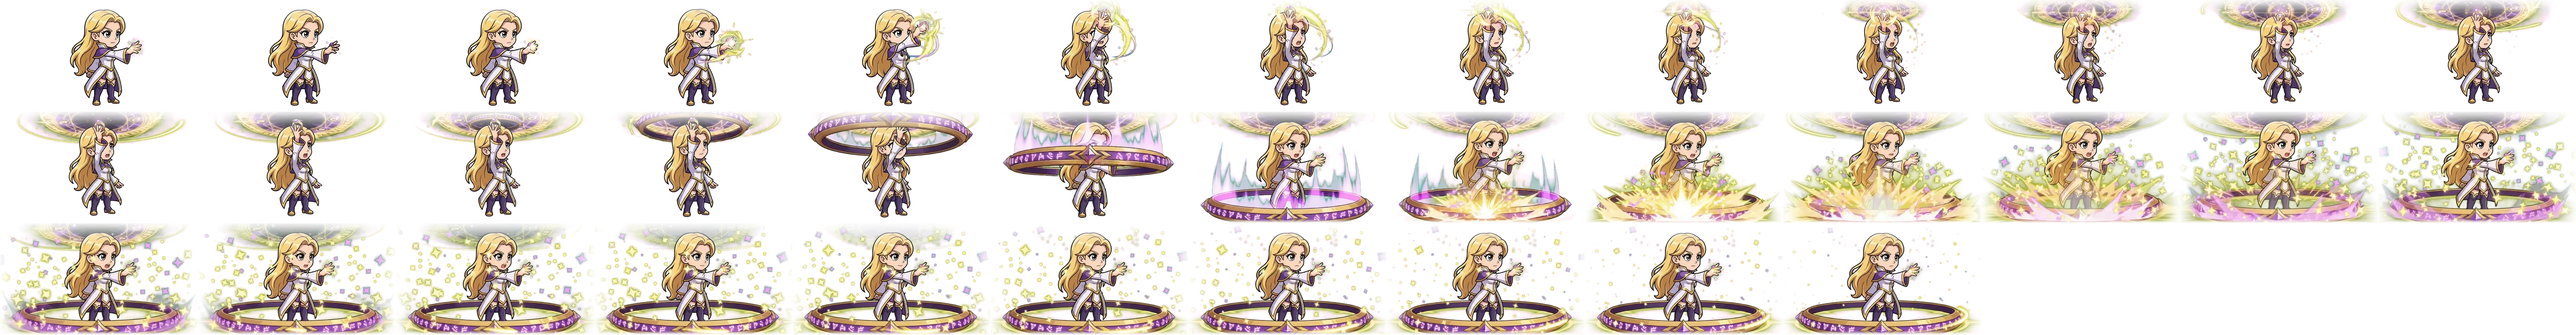
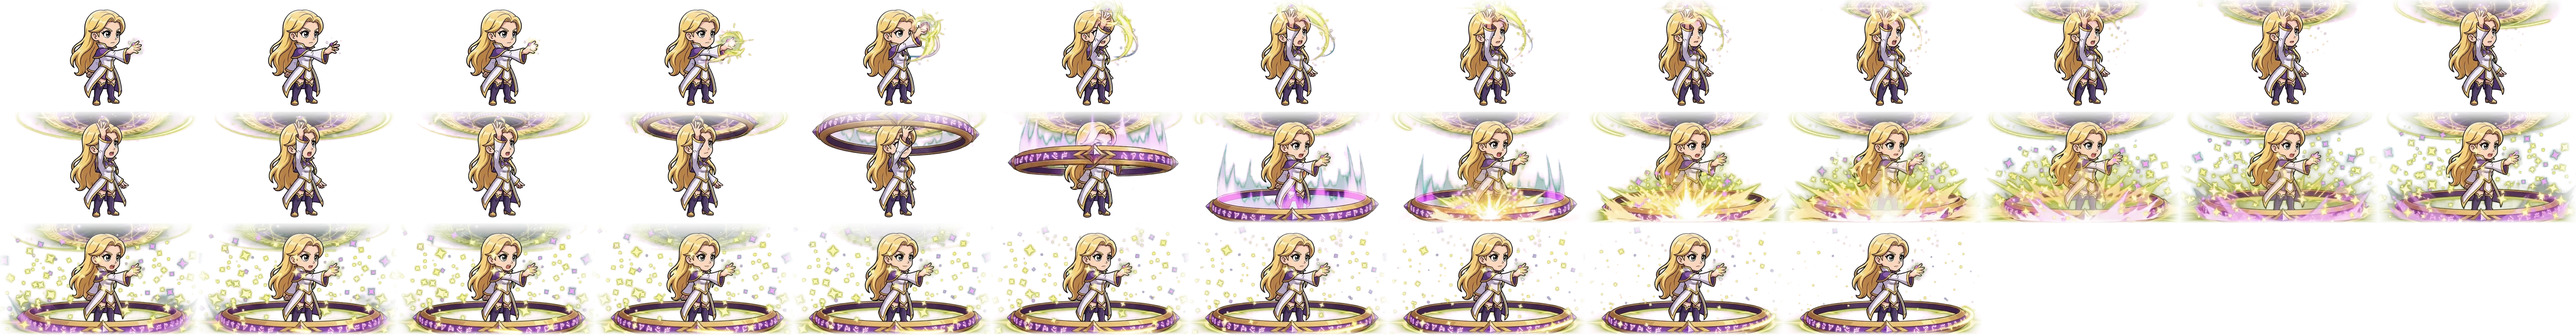
Cambio 4: dardo y ultimate de la Hechicera y ultimate de la Abuela estabilizados
Claude-Session: https://claude.ai/code/session_01QroJPNWtC3fVbqsGw4yzNr

diff --git a/index.html b/index.html
@@ -13,8 +13,8 @@ canvas{display:block;background:#000}
 <div id="load">Cargando 0%</div>
 <div id="rot">Gira el teléfono en horizontal para jugar mejor</div>
 <script>
-const MAN={"sword": {"anchor": [323, 333], "walk": {"n": 30, "x": 250, "y": 20, "w": 226, "h": 317, "fps": 10, "cols": 30}, "idle": {"n": 18, "x": 252, "y": 21, "w": 230, "h": 317, "fps": 8, "cols": 18}, "attack": {"n": 17, "x": 70, "y": 22, "w": 495, "h": 316, "fps": 14, "cols": 16}, "ult": {"n": 20, "x": 37, "y": 26, "w": 574, "h": 312, "fps": 12, "cols": 14}, "scale": 0.5844155844155844, "tornado": {"n": 87, "x": 105, "y": 0, "w": 432, "h": 348, "fps": 15, "cols": 18}}, "mage": {"anchor": [321, 339], "scale": 0.5863192182410424, "walk": {"n": 30, "x": 207, "y": 26, "w": 260, "h": 317, "fps": 10, "cols": 30}, "idle": {"n": 30, "x": 179, "y": 26, "w": 293, "h": 317, "fps": 10, "cols": 27}, "attack": {"n": 29, "x": 213, "y": 1, "w": 412, "h": 348, "fps": 15, "cols": 19}, "skill": {"n": 27, "x": 28, "y": 21, "w": 591, "h": 338, "fps": 12, "cols": 13}, "ult": {"n": 36, "x": 11, "y": 11, "w": 618, "h": 349, "fps": 12, "cols": 13}}, "tank": {"anchor": [321, 339], "scale": 0.6060606060606061, "idle": {"n": 36, "x": 253, "y": 39, "w": 190, "h": 304, "fps": 12, "cols": 36}, "walk": {"n": 36, "x": 243, "y": 37, "w": 244, "h": 308, "fps": 12, "cols": 33}, "attack": {"n": 34, "x": 75, "y": 15, "w": 530, "h": 345, "fps": 20, "cols": 15}, "skill": {"n": 36, "x": 45, "y": 17, "w": 544, "h": 342, "fps": 12, "cols": 15}, "ult": {"n": 36, "x": 15, "y": 15, "w": 610, "h": 344, "fps": 12, "cols": 13}}, "doc": {"anchor": [322, 345], "scale": 0.5787781350482315, "idle": {"n": 36, "x": 249, "y": 23, "w": 196, "h": 326, "fps": 12, "cols": 36}, "walk": {"n": 36, "x": 243, "y": 23, "w": 174, "h": 326, "fps": 12, "cols": 36}, "attack": {"n": 32, "x": 53, "y": 9, "w": 578, "h": 350, "fps": 22, "cols": 14}, "skill": {"n": 36, "x": 21, "y": 16, "w": 583, "h": 343, "fps": 12, "cols": 14}, "ult": {"n": 36, "x": 21, "y": 21, "w": 597, "h": 338, "fps": 12, "cols": 13}}, "ase": {"anchor": [323, 345], "scale": 0.594059405940594, "idle": {"n": 36, "x": 197, "y": 37, "w": 260, "h": 312, "fps": 12, "cols": 31}, "walk": {"n": 36, "x": 207, "y": 37, "w": 254, "h": 314, "fps": 12, "cols": 32}, "attack": {"n": 26, "x": 51, "y": 9, "w": 580, "h": 340, "fps": 18, "cols": 14}, "skill": {"n": 36, "x": 17, "y": 17, "w": 606, "h": 342, "fps": 16, "cols": 13}, "ult": {"n": 36, "x": 108, "y": 15, "w": 517, "h": 344, "fps": 14, "cols": 15}}, "ring": {"anchor": [326, 341], "scale": 0.6060606060606061, "idle": {"n": 36, "x": 191, "y": 39, "w": 334, "h": 306, "fps": 12, "cols": 24}, "walk": {"n": 36, "x": 203, "y": 37, "w": 282, "h": 310, "fps": 12, "cols": 29}, "attack": {"n": 33, "x": 57, "y": 13, "w": 570, "h": 346, "fps": 18, "cols": 14}, "skill": {"n": 36, "x": 17, "y": 17, "w": 606, "h": 342, "fps": 14, "cols": 13}, "ult": {"n": 36, "x": 15, "y": 15, "w": 610, "h": 344, "fps": 14, "cols": 13}}};
-const VERSION=3;
+const MAN={"sword": {"anchor": [323, 333], "walk": {"n": 30, "x": 250, "y": 20, "w": 226, "h": 317, "fps": 10, "cols": 30}, "idle": {"n": 18, "x": 252, "y": 21, "w": 230, "h": 317, "fps": 8, "cols": 18}, "attack": {"n": 17, "x": 70, "y": 22, "w": 495, "h": 316, "fps": 14, "cols": 16}, "ult": {"n": 20, "x": 37, "y": 26, "w": 574, "h": 312, "fps": 12, "cols": 14}, "scale": 0.5844155844155844, "tornado": {"n": 87, "x": 105, "y": 0, "w": 432, "h": 348, "fps": 15, "cols": 18}}, "mage": {"anchor": [321, 339], "scale": 0.5863192182410424, "walk": {"n": 30, "x": 207, "y": 26, "w": 260, "h": 317, "fps": 10, "cols": 30}, "idle": {"n": 30, "x": 179, "y": 26, "w": 293, "h": 317, "fps": 10, "cols": 27}, "attack": {"n": 29, "x": 213, "y": 1, "w": 412, "h": 348, "fps": 15, "cols": 19}, "skill": {"n": 27, "x": 28, "y": 21, "w": 591, "h": 338, "fps": 12, "cols": 13}, "ult": {"n": 36, "x": 11, "y": 11, "w": 618, "h": 349, "fps": 12, "cols": 13}}, "tank": {"anchor": [321, 339], "scale": 0.6060606060606061, "idle": {"n": 36, "x": 253, "y": 39, "w": 190, "h": 304, "fps": 12, "cols": 36}, "walk": {"n": 36, "x": 243, "y": 37, "w": 244, "h": 308, "fps": 12, "cols": 33}, "attack": {"n": 34, "x": 75, "y": 15, "w": 530, "h": 345, "fps": 20, "cols": 15}, "skill": {"n": 36, "x": 45, "y": 17, "w": 544, "h": 342, "fps": 12, "cols": 15}, "ult": {"n": 36, "x": 15, "y": 15, "w": 610, "h": 344, "fps": 12, "cols": 13}}, "doc": {"anchor": [322, 345], "scale": 0.5787781350482315, "idle": {"n": 36, "x": 249, "y": 23, "w": 196, "h": 326, "fps": 12, "cols": 36}, "walk": {"n": 36, "x": 243, "y": 23, "w": 174, "h": 326, "fps": 12, "cols": 36}, "attack": {"n": 32, "x": 53, "y": 9, "w": 578, "h": 350, "fps": 22, "cols": 14}, "skill": {"n": 36, "x": 21, "y": 16, "w": 583, "h": 343, "fps": 12, "cols": 14}, "ult": {"n": 36, "x": 21, "y": 21, "w": 597, "h": 338, "fps": 12, "cols": 13}}, "ase": {"anchor": [323, 345], "scale": 0.594059405940594, "idle": {"n": 36, "x": 197, "y": 37, "w": 260, "h": 312, "fps": 12, "cols": 31}, "walk": {"n": 36, "x": 207, "y": 37, "w": 254, "h": 314, "fps": 12, "cols": 32}, "attack": {"n": 26, "x": 51, "y": 9, "w": 580, "h": 340, "fps": 18, "cols": 14}, "skill": {"n": 36, "x": 17, "y": 17, "w": 606, "h": 342, "fps": 16, "cols": 13}, "ult": {"n": 36, "x": 108, "y": 15, "w": 517, "h": 344, "fps": 14, "cols": 15}}, "ring": {"anchor": [326, 341], "scale": 0.6060606060606061, "idle": {"n": 36, "x": 191, "y": 39, "w": 334, "h": 306, "fps": 12, "cols": 24}, "walk": {"n": 36, "x": 203, "y": 37, "w": 282, "h": 310, "fps": 12, "cols": 29}, "attack": {"n": 33, "x": 199, "y": 13, "w": 428, "h": 346, "fps": 18, "cols": 19}, "skill": {"n": 36, "x": 17, "y": 17, "w": 606, "h": 342, "fps": 14, "cols": 13}, "ult": {"n": 36, "x": 15, "y": 15, "w": 610, "h": 344, "fps": 14, "cols": 13}}};
+const VERSION=4;
 const W=960,H=540,HY=392,HX=230,SY=400,CX=610;
 const HEROES={sword:{name:'Espadachín',pre:'',moves:'Tajo · Tornado · Corte'},mage:{name:'Maga',pre:'m_',moves:'Rayo · Flash · Ultimate'},tank:{name:'Abuela',pre:'t_',moves:'Peluchazo · Abrazo · Oso'},doc:{name:'Doctor',pre:'d_',moves:'Látigo · Curar · Jeringa'},ase:{name:'Asesino',pre:'a_',moves:'Bate · Embiste · Jonrón'},ring:{name:'Hechicera',pre:'r_',moves:'Dardo · Runas · Anillo'}};
 const CS={sword:{},mage:{},tank:{},doc:{},ase:{},ring:{}};
